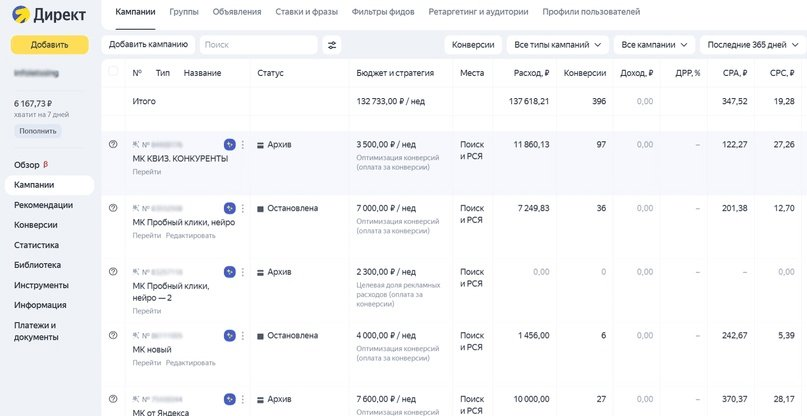
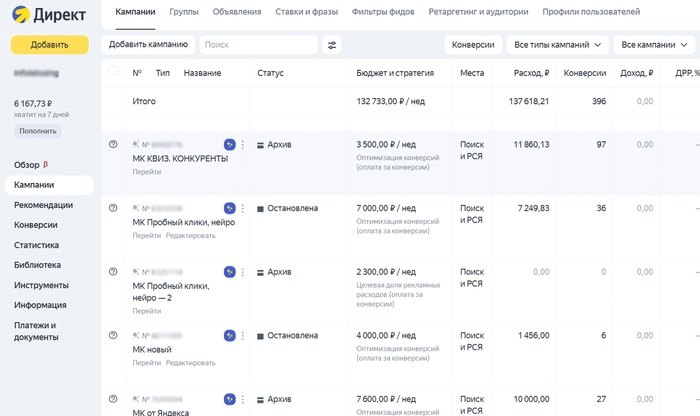
Portfolio: role line, case numbers

diff --git a/portfolio/index.html b/portfolio/index.html
@@ -50,11 +50,11 @@
 <section class="facts wrap" aria-label="Главные цифры">
   <div class="fact">
     <p class="fact__n">369 <span>заявок</span></p>
-    <p class="fact__t">по 340 ₽ для онлайн-школы вокала</p>
+    <p class="fact__t">для онлайн-школы вокала при бюджете 110 500 ₽</p>
   </div>
   <div class="fact">
     <p class="fact__n">414 <span>заявок</span></p>
-    <p class="fact__t">по 362 ₽ для частного психолога</p>
+    <p class="fact__t">для частного психолога при бюджете 109 902 ₽</p>
   </div>
   <div class="fact">
     <p class="fact__n">13,07 <span>₽</span></p>
@@ -64,7 +64,7 @@
 
 <section class="cases wrap" id="cases">
   <h2>Кейсы</h2>
-  <p class="note">Часть проектов сделана в команде; моя роль — маркетолог: стратегия, настройка рекламы, аналитика.</p>
+  <p class="note">Часть проектов сделана в команде. Моя часть — семантика, тексты объявлений и креативы, выбор гео, статистика.</p>
 
   <h3 class="group">Онлайн-школы и услуги</h3>
 
@@ -99,7 +99,7 @@
   <article class="case">
     <div class="case__body">
       <p class="case__meta">Яндекс Директ · Москва и область · 7 недель</p>
-      <h4>Частный психолог: 414 заявок по 362 ₽</h4>
+      <h4>Частный психолог: 414 заявок за 7 недель</h4>
       <dl class="story">
         <dt>Задача</dt>
         <dd>Заявки на первую сессию у клинического психолога. Бюджет 100 000 ₽.</dd>
@@ -110,7 +110,6 @@
         <li><b>109 902 ₽</b> бюджет</li>
         <li><b>6 677</b> кликов</li>
         <li><b>414</b> заявок</li>
-        <li><b>362,1 ₽</b> за заявку</li>
       </ul>
       <a class="textlink" href="https://docs.google.com/document/d/12WNCaJflFrENzG59cHQL8S3M4ZXFnbUH6wf1Yt0p68M/edit?usp=sharing" target="_blank" rel="noopener">Полный кейс</a>
     </div>
@@ -128,7 +127,7 @@
   <article class="case">
     <div class="case__body">
       <p class="case__meta">Яндекс Директ · Москва, Санкт-Петербург и соседние часовые пояса</p>
-      <h4>Онлайн-школа вокала: 369 заявок по 340 ₽</h4>
+      <h4>Онлайн-школа вокала: 369 заявок на пробные занятия</h4>
       <dl class="story">
         <dt>Задача</dt>
         <dd>Заявки на пробные занятия с дальнейшей продажей курса и абонементов.</dd>
@@ -138,14 +137,13 @@
       <ul class="nums">
         <li><b>110 500 ₽</b> бюджет</li>
         <li><b>369</b> заявок</li>
-        <li><b>340 ₽</b> за заявку</li>
       </ul>
       <a class="textlink" href="https://docs.google.com/document/d/1mFklG57RYLHqIspp73RG7lZCZg3FNZKGelEJzvITIx0/edit?usp=sharing" target="_blank" rel="noopener">Полный кейс</a>
     </div>
     <figure class="case__fig">
       <picture>
         <source srcset="assets/img/vocal-direct.webp" type="image/webp">
-        <img loading="lazy" src="assets/img/vocal-direct.jpg" width="807" height="416" alt="Кабинет Яндекс Директа школы вокала: список кампаний, расход, конверсии и CPA">
+        <img loading="lazy" src="assets/img/vocal-direct.jpg" width="700" height="416" alt="Кабинет Яндекс Директа школы вокала: список кампаний со стратегиями и статусами">
       </picture>
       <figcaption>Кабинет Директа, срез за 365 дней: кампании на квиз и пробный урок.</figcaption>
     </figure>
@@ -282,7 +280,7 @@
             <img loading="lazy" src="assets/img/psy-search-ad.jpg" width="619" height="469" alt="Поисковое объявление: Профессия психолога-консультанта с нуля, восемь быстрых ссылок">
           </picture>
         </div>
-        <figcaption><b>Поиск Яндекса.</b> Объявление онлайн-школы психологии с быстрыми ссылками. Данные клиента размыты.</figcaption>
+        <figcaption><b>Поиск Яндекса.</b> Объявление онлайн-школы психологии с быстрыми ссылками, текст мой. Данные клиента размыты.</figcaption>
       </figure>
 
       <figure class="m m--rsya">
@@ -290,7 +288,7 @@
           <source srcset="assets/img/interior-rsya.webp" type="image/webp">
           <img loading="lazy" src="assets/img/interior-rsya.jpg" width="599" height="336" alt="Три объявления РСЯ с фотографиями дизайнера интерьеров">
         </picture>
-        <figcaption><b>РСЯ.</b> Три объявления для дизайнера интерьеров: лицо в кадре и прямое обращение.</figcaption>
+        <figcaption><b>РСЯ.</b> Три моих объявления для дизайнера интерьеров: лицо в кадре и прямое обращение.</figcaption>
       </figure>
 
       <figure class="m m--leaf">
